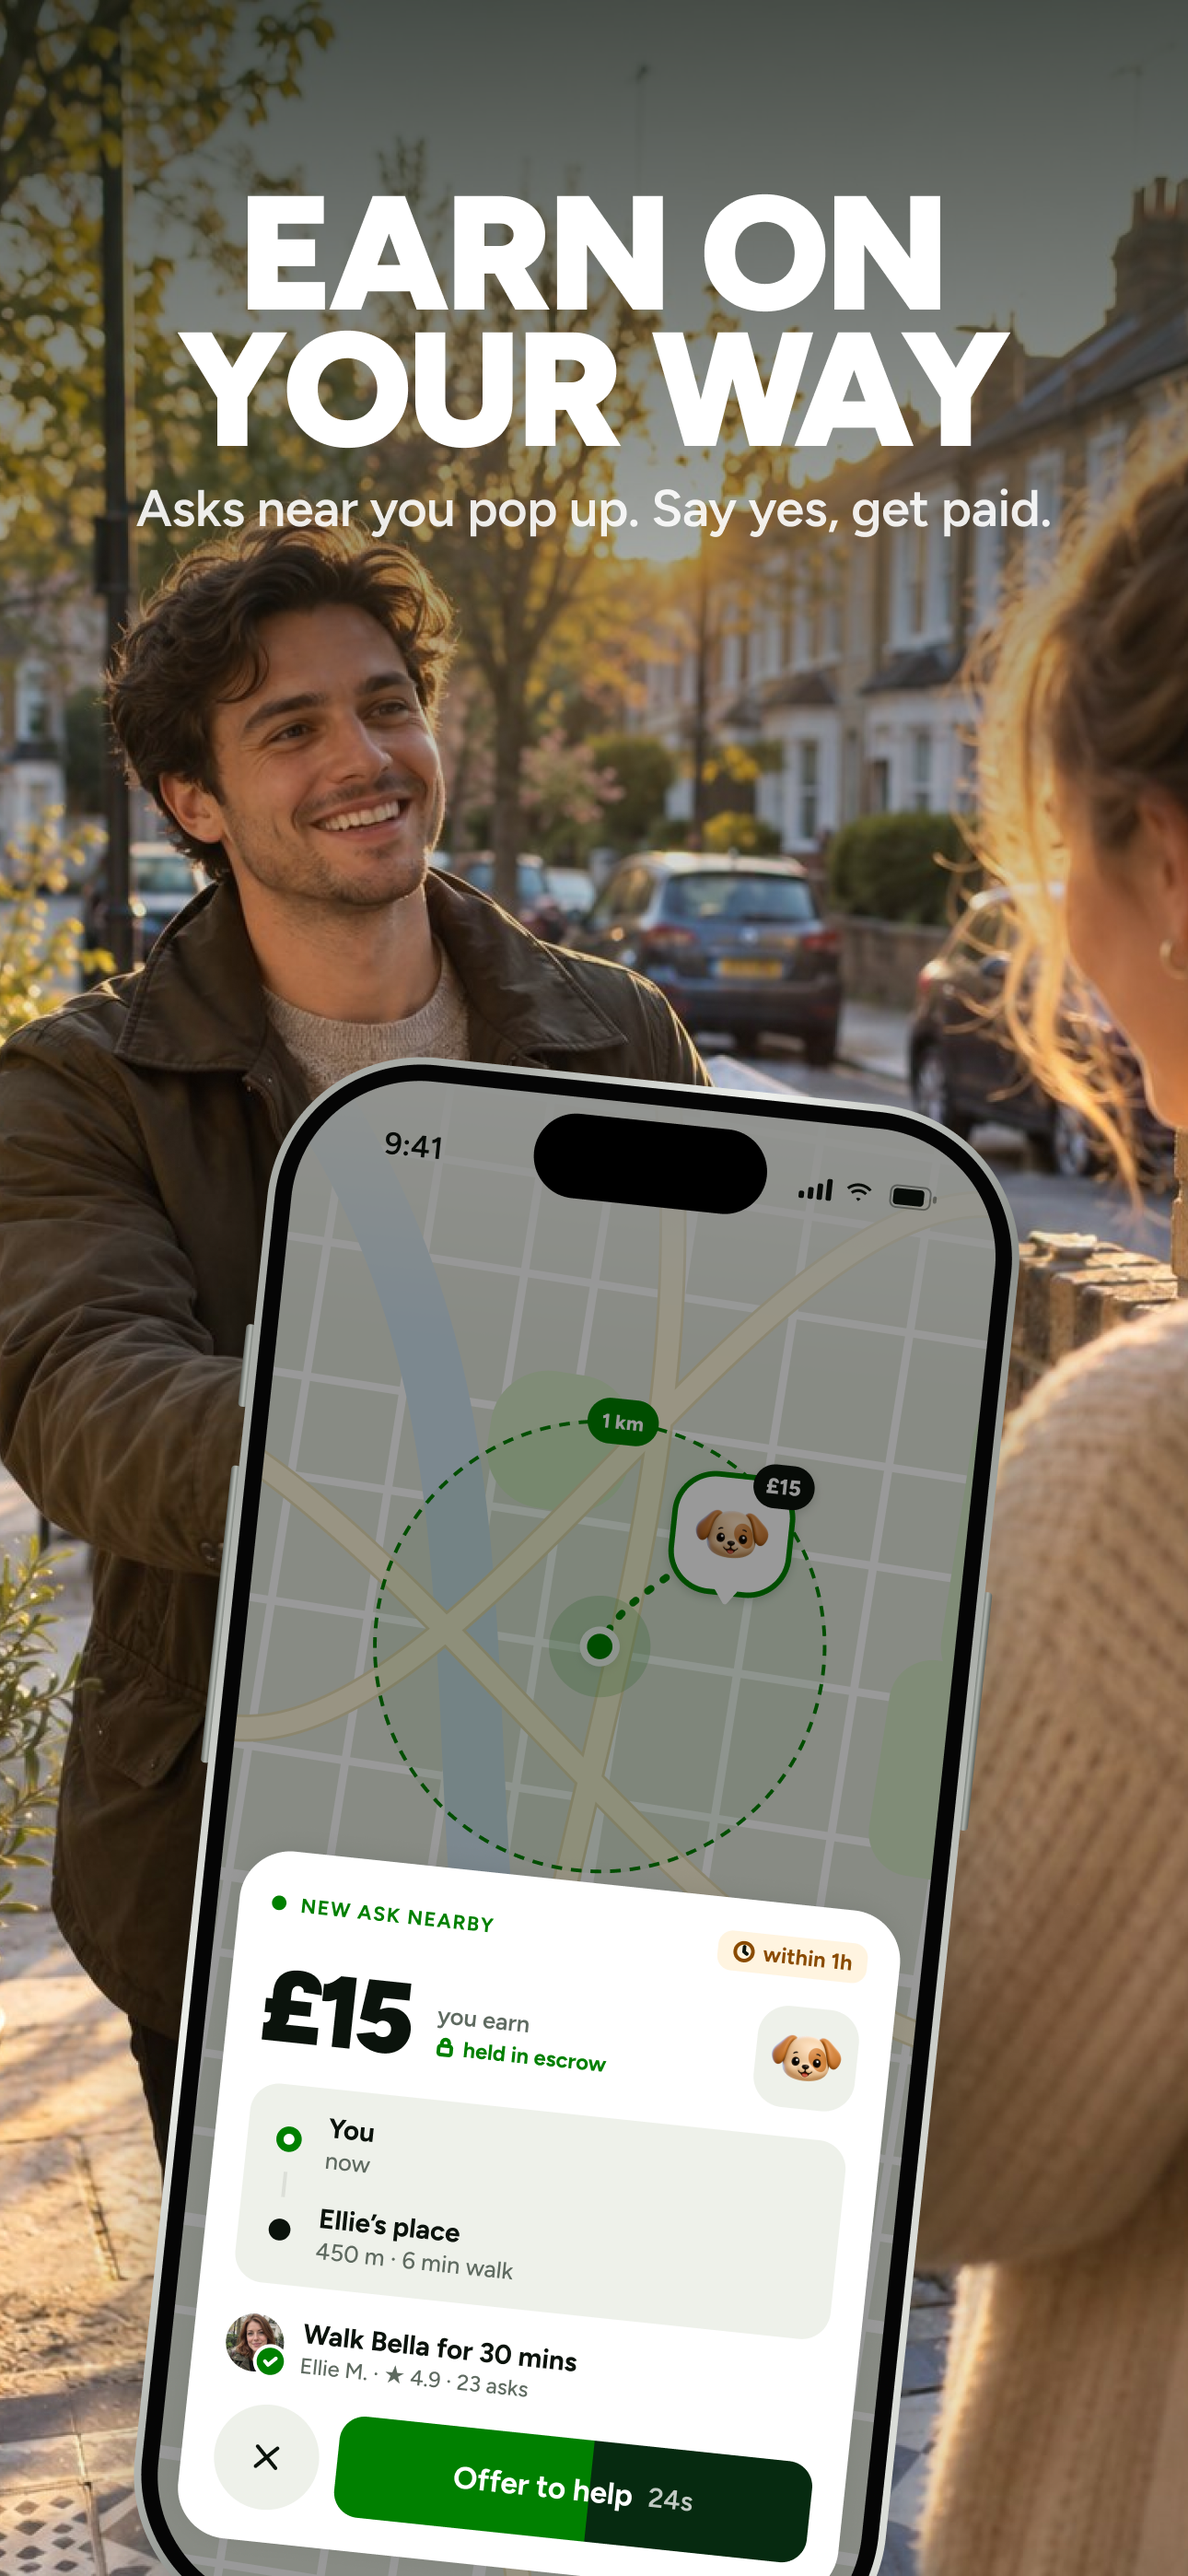
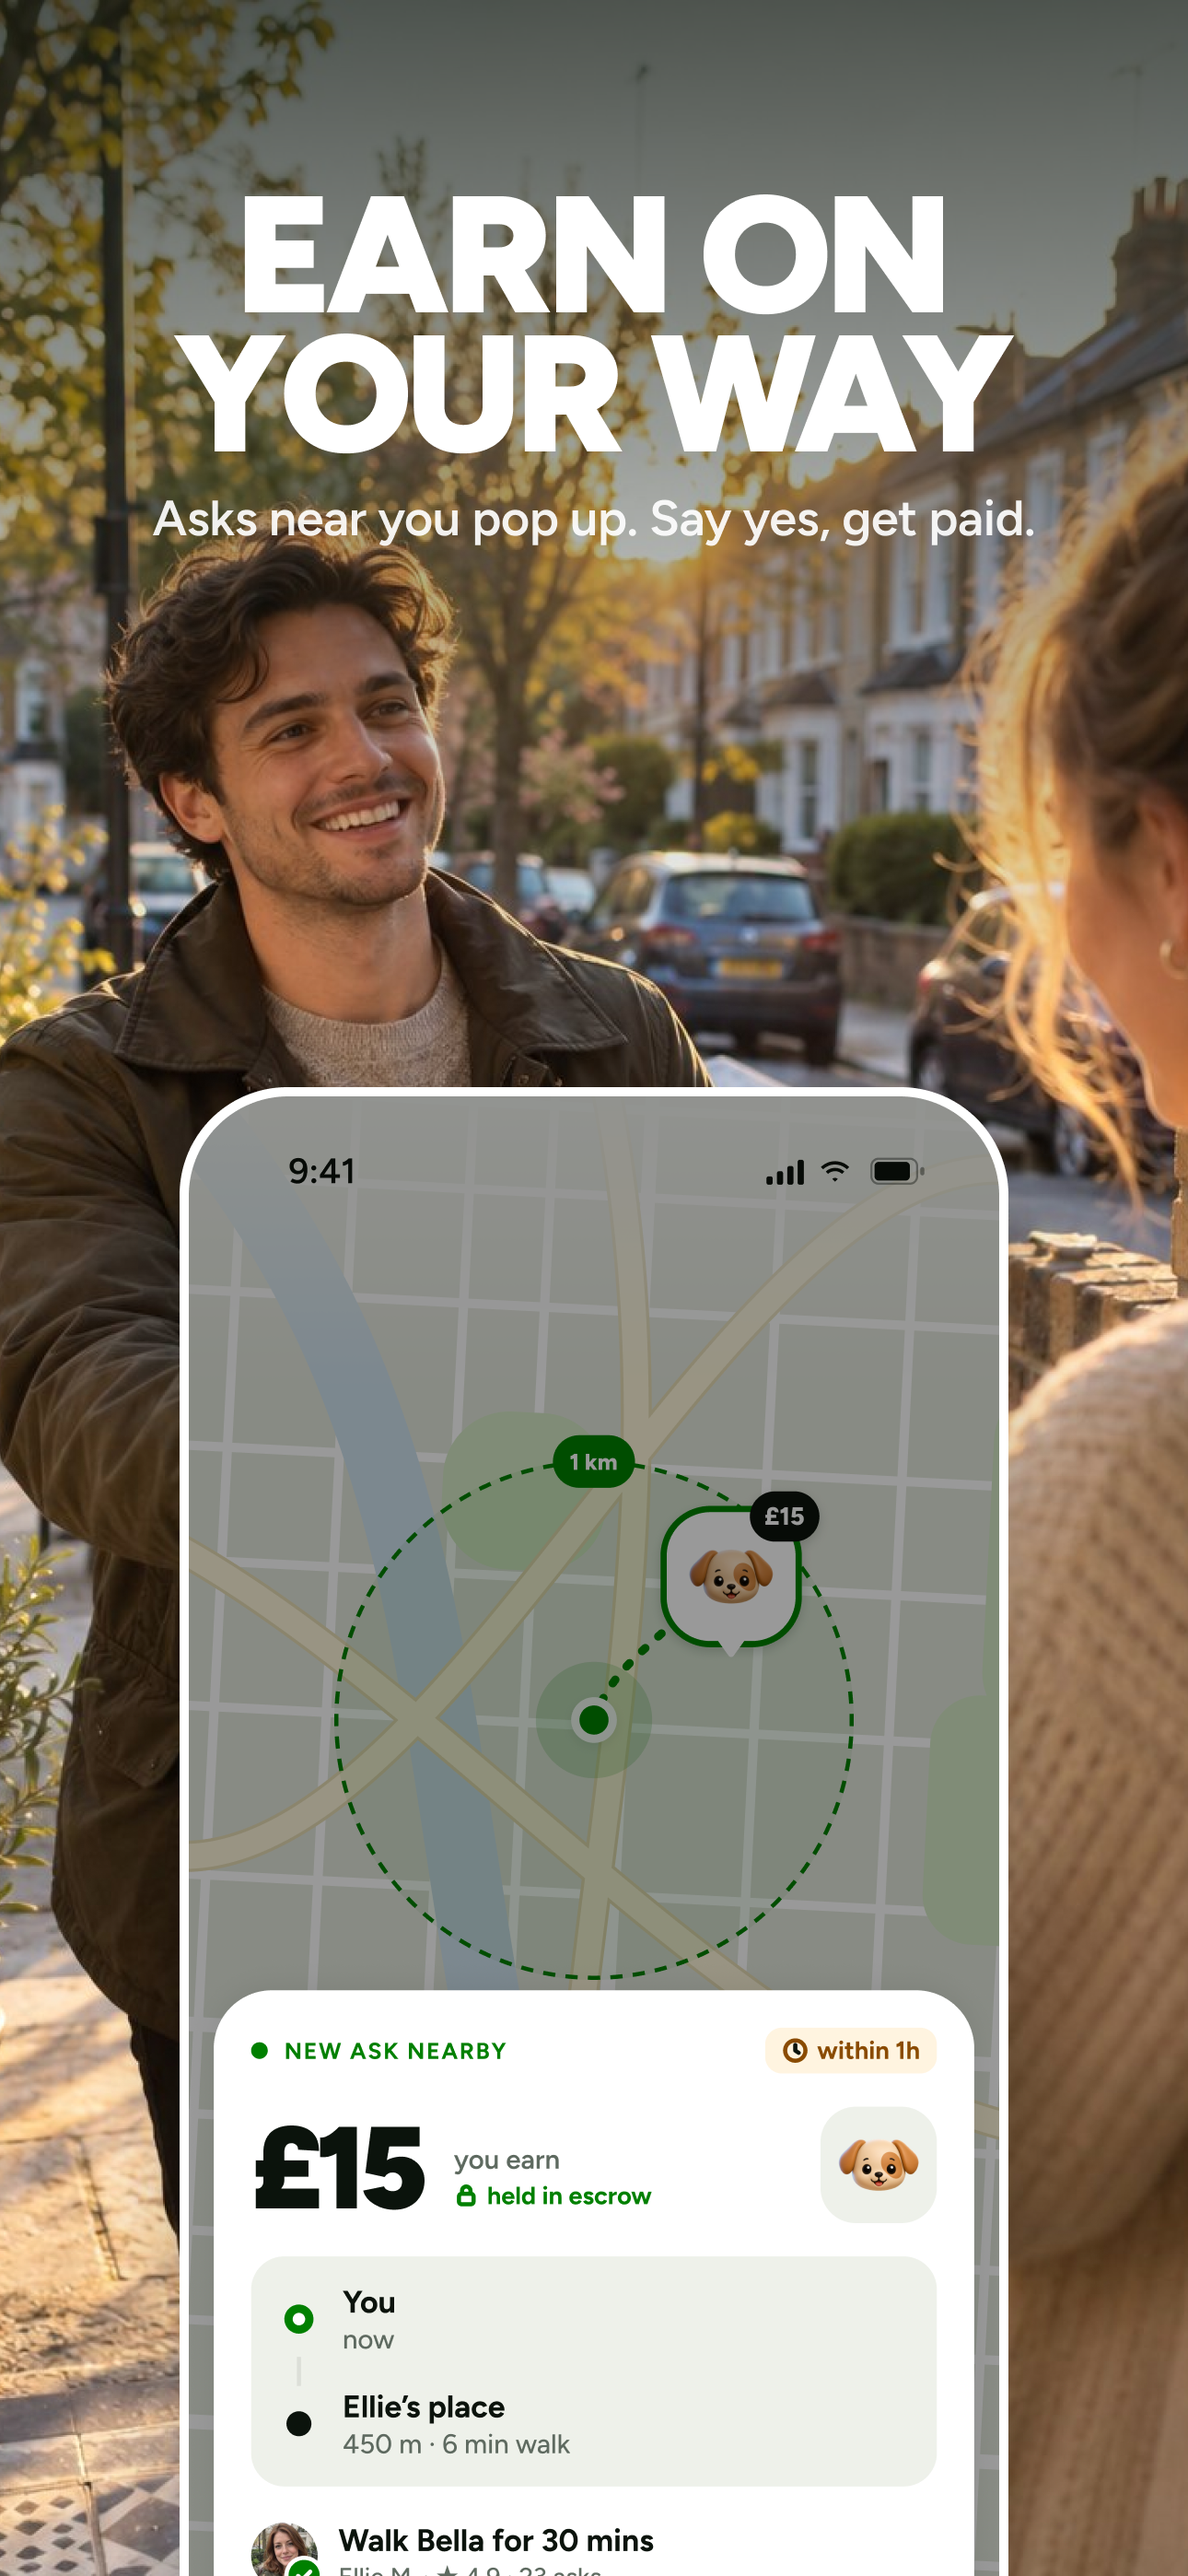
App Store v4: one Wise-style system with journaling mascot moments
Studied screensdesign.com plus the Wise, Arc and journaling references.
One consistent green/lime system, thin-bezel and frameless phones, a 3D
Hop hero, and a Codex-generated 3D hand holding the real chat UI.

diff --git a/HANDOFF.md b/HANDOFF.md
@@ -273,23 +273,25 @@ The coded prototype now covers all 40 screen IDs (phone, code, skills, lock-scre
 - Motion notes start with "60fps ·" and describe the shipped interaction.
 - The Figma clickable prototype is regenerated (47 screens, 114 links). The coded prototype index has 46 entries: the same IDs, with 01.3 living inside 01.2 (swipe) and 01.9 inside 01.8 (the native dialog), plus My asks.
 
-### App Store set v3
+### App Store set v4
 
-Eight 1290 × 2796 frames in Figma (section "📱 App Store screenshots … v3"), exported to `appstore/`.
-- **Imagery:** generated with Codex CLI (image generation), sources in `assets/appstore-gen/`: a 3D Hop render made from the real Hop artwork, a botanical lime texture, a pastel grid, and two London lifestyle photos.
-- **Device:** an iPhone 16 Pro–style frame (titanium edge, bezel, Dynamic Island, side buttons) replaces the plain rectangle.
-- **References applied:** Wise (uppercase lime-on-green headlines, a floating UI card over texture, a photo under the phone), Arc (pastel grid, gradient headline), journaling app (mascot hero on a mascot pattern, eyebrow line + hand-drawn swash, tilted phone).
+Rebuilt after studying screensdesign.com's store-screenshot library plus the client's three references (Wise, Arc, journaling app). The main lesson: great sets are one consistent system, not a mix of styles.
 
-| # | Headline | Style | Screen |
-|---|---|---|---|
-| 01 | Get it done. Get paid. | Journaling hero, 3D Hop | — |
-| 02 | The fast way to get it done | Wise, card over texture | 03.2 card |
-| 03 | Pick who helps. | Wise, lime field | 03.3 |
-| 04 | Earn on your way | Wise, lifestyle photo | 02.4 |
-| 05 | Pay safely. Release when done. | Arc, pastel grid | 03.8 |
-| 06 | See what people need, right now. | Journaling, swash + tilt | 02.1 |
-| 07 | Verified. Trusted. | Wise, pass over texture | 06.2 |
-| 08 | Get paid the moment it's done | Wise, photo + payout card | — |
+- **System:** Wise-style. Dark green and lime frames alternate, with an uppercase Figtree Black headline block on top and the phone in the bottom ~65%, bleeding off the edge. Two lifestyle-photo frames break the rhythm.
+- **Mascot moments (journaling app):** a 3D Hop hero on a tone-on-tone Hop pattern, hand-drawn circle and underline accents, and a 3D hand holding the phone.
+- **Devices:** a thin black bezel with Dynamic Island, or a frameless white phone (Wise). No heavy chrome.
+- **Imagery:** generated with Codex CLI (`assets/appstore-gen/`): 3D Hop, 3D hand (the screen was a pure-green plate, measured and replaced with real UI), botanical texture, two London lifestyle photos.
+
+| # | Headline | Treatment |
+|---|---|---|
+| 01 | Get it done. Get paid. | 3D Hop hero, Hop pattern, circled "paid" |
+| 02 | The fast way to get it done | Finding card over botanical texture, Hop peeking |
+| 03 | Built to protect every penny | Lime, frameless phone, escrow checkout |
+| 04 | Earn on your way | Lifestyle photo, inbound ask |
+| 05 | Pick who helps | Dark, offer callout, "Fixed price · No bidding" pill |
+| 06 | Chat, track, done. | 3D hand holding the chat, eyebrow + underline |
+| 07 | Verified. Trusted. | Verified pass over texture |
+| 08 | Get paid the moment it's done | Lifestyle photo, payout card |
 
 ### v4.4: real people, iOS focus
 
